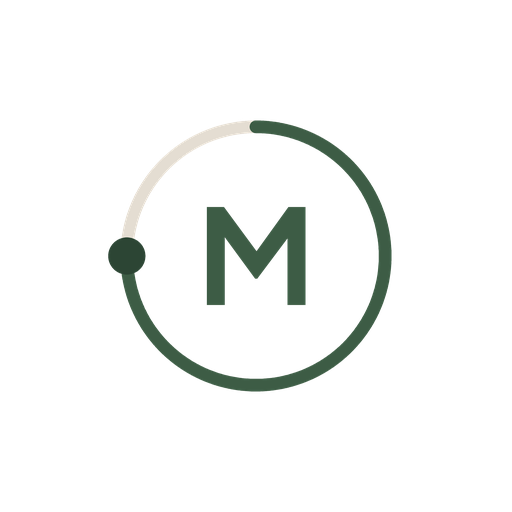
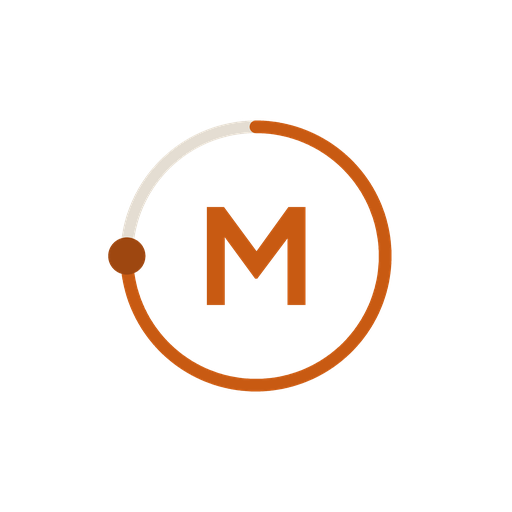
design: orange 70s #C85A12 / #9E4710 à la place du vert (accents, pastille active, onglet, engrenage, icône)

Changed region(s): [[0.1875, 0.2188, 0.7812, 0.7812], [0.4062, 0.4062, 0.625, 0.5938]]

diff --git a/src/theme/colors.ts b/src/theme/colors.ts
@@ -2,12 +2,12 @@ export const colors = {
   /** Fond d’écran — papier #F4F1EA ; cartes, champs et pastilles en blanc + liseré `border` */
   background: '#F4F1EA',
   surface: '#FFFFFF',
-  /** Surfaces secondaires — blanc + liseré `border` (un blanc, un noir, un vert) */
+  /** Surfaces secondaires — blanc + liseré `border` (un blanc, un noir, un orange) */
   surfaceMuted: '#FFFFFF',
-  /** Vert #3D5C45 — uniquement : bouton principal, mot accent, onglet actif, engrenage, pastille active */
-  primary: '#3D5C45',
-  primaryDark: '#2C4534',
-  /** Ancien vert pâle → blanc (le vert est réservé : CTA, mot accent, onglet actif, engrenage, pastille active) */
+  /** Orange 70s #C85A12 — uniquement : bouton principal, mot accent, onglet actif, engrenage, pastille active */
+  primary: '#C85A12',
+  primaryDark: '#9E4710',
+  /** Ancien vert pâle → blanc (l’orange est réservé : CTA, mot accent, onglet actif, engrenage, pastille active) */
   primarySoft: '#FFFFFF',
   /** Texte principal — encre #1C1917 */
   text: '#1C1917',
@@ -19,7 +19,7 @@ export const colors = {
   border: '#E4DDD2',
   /**
    * Pas de token « success » : une confirmation = coche + texte foncé
-   * sur fond blanc (CheckNote). Le vert plein reste réservé au CTA.
+   * sur fond blanc (CheckNote). L’orange plein reste réservé au CTA.
    */
   /** Avertissement — texte + liseré #A15C07, sur fond blanc */
   warning: '#A15C07',
@@ -32,8 +32,8 @@ export const colors = {
   chip: '#FFFFFF',
   chipBorder: '#E4DDD2',
   chipText: '#1C1917',
-  /** Pastille active : fond vert #3D5C45, texte blanc */
-  chipActive: '#3D5C45',
+  /** Pastille active : fond orange #C85A12, texte blanc */
+  chipActive: '#C85A12',
   chipActiveText: '#FFFFFF',
   overlay: 'rgba(28, 25, 23, 0.45)',
   tabInactive: '#6F675E',

diff --git a/src/screens/FeedScreen.tsx b/src/screens/FeedScreen.tsx
@@ -972,7 +972,7 @@ export function FeedScreen() {
 
   const listHeader = (
     <View style={styles.listHeader}>
-      {/* Segment Annonces / Dispo : la pastille choisie reste verte */}
+      {/* Segment Annonces / Dispo : la pastille choisie reste orange */}
       <View style={styles.segment}>
         {(['sorties', 'dispos'] as FeedMode[]).map((m) => {
           const selected = mode === m;
@@ -1091,7 +1091,7 @@ const styles = StyleSheet.create({
   title: { ...typography.title, color: colors.text, marginTop: 2 },
   sub: { ...typography.caption, color: colors.textSecondary, marginTop: 4 },
   listHeader: { marginBottom: spacing.lg },
-  /** Annonces / Dispo : pastille active verte + texte blanc, l’autre blanche + liseré. */
+  /** Annonces / Dispo : pastille active orange + texte blanc, l’autre blanche + liseré. */
   segment: {
     flexDirection: 'row',
     gap: spacing.sm,

diff --git a/src/screens/OnboardingScreen.tsx b/src/screens/OnboardingScreen.tsx
@@ -34,8 +34,8 @@ import { pickProfilePhoto } from '../utils/pickProfilePhoto';
 const { width } = Dimensions.get('window');
 
 /**
- * 3 slides avant le tunnel : grand titre 34 à gauche (« partager. » / « Moment » en vert,
- * slide 2 sans mot vert),
+ * 3 slides avant le tunnel : grand titre 34 à gauche (« partager. » / « Moment » en orange,
+ * slide 2 sans mot en couleur),
  * beaucoup d’air. Rien sur la caution / les 10 min / le joker ici (c’est dans
  * « Comment ça marche », plus loin dans le tunnel).
  */

diff --git a/src/components/PillsWithOther.tsx b/src/components/PillsWithOther.tsx
@@ -231,7 +231,7 @@ const styles = StyleSheet.create({
   /** Inactive : fond blanc, bord #E4DDD2, texte #1C1917. */
   pillChip: { backgroundColor: colors.chip, borderColor: colors.chipBorder },
   pillOutline: { backgroundColor: colors.chip, borderColor: colors.chipBorder },
-  /** Active : fond vert, texte blanc. */
+  /** Active : fond orange #C85A12, texte blanc. */
   pillOn: { backgroundColor: colors.chipActive, borderColor: colors.chipActive },
   pressed: { opacity: 0.88 },
   pillText: {

diff --git a/src/components/CheckNote.tsx b/src/components/CheckNote.tsx
@@ -13,8 +13,8 @@ interface Props {
 }
 
 /**
- * Confirmation sobre : coche vert Jaguar + texte foncé, sans fond plein.
- * Le vert plein reste réservé à l’action principale (CTA).
+ * Confirmation sobre : coche #1C1917 + texte foncé, sans fond plein.
+ * L’orange plein reste réservé à l’action principale (CTA).
  */
 export function CheckNote({ children, center, size = 16, style, textStyle }: Props) {
   return (

diff --git a/src/components/Button.tsx b/src/components/Button.tsx
@@ -86,7 +86,7 @@ const styles = StyleSheet.create({
 
 const variantStyles = StyleSheet.create({
   primary: { backgroundColor: colors.primary },
-  /** Secondaire = pilule contour #E4DDD2, texte #1C1917 (le vert reste au bouton principal). */
+  /** Secondaire = pilule contour #E4DDD2, texte #1C1917 (l’orange reste au bouton principal). */
   secondary: {
     backgroundColor: colors.surface,
     borderWidth: 1,

diff --git a/src/components/OutingCard.tsx b/src/components/OutingCard.tsx
@@ -184,7 +184,7 @@ const styles = StyleSheet.create({
     color: colors.textSecondary,
     marginTop: spacing.xs,
   },
-  /** Une seule pastille : blanche + liseré ; « Maintenant » en noir plein (pas de vert sur la carte). */
+  /** Une seule pastille : blanche + liseré ; « Maintenant » en noir plein (pas d’orange sur la carte). */
   pill: {
     alignSelf: 'flex-start',
     marginTop: spacing.md,

diff --git a/src/navigation/RootNavigator.tsx b/src/navigation/RootNavigator.tsx
@@ -28,7 +28,7 @@ import { RootStackParamList } from './types';
 
 const Stack = createNativeStackNavigator<RootStackParamList>();
 
-/** Remplace le bleu iOS par défaut : thème neutre, vert Jaguar réservé aux accents. */
+/** Remplace le bleu iOS par défaut : thème neutre, orange réservé aux accents. */
 const chanceNavTheme: Theme = {
   ...DefaultTheme,
   colors: {

diff --git a/src/components/PersonCard.tsx b/src/components/PersonCard.tsx
@@ -156,7 +156,7 @@ const styles = StyleSheet.create({
     fontFamily: fonts.semiBold,
     color: colors.chipText,
   },
-  /** Bouton secondaire (pilule contour) : un seul bouton vert par écran. */
+  /** Bouton secondaire (pilule contour) : un seul bouton orange par écran. */
   cta: {
     marginTop: spacing.lg,
     alignSelf: 'stretch',
